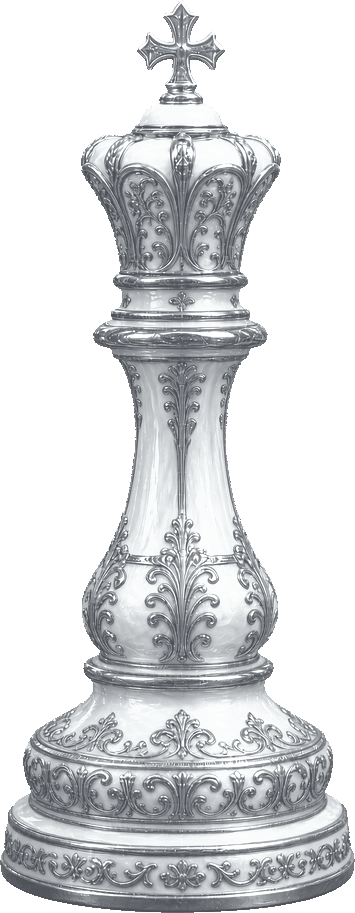
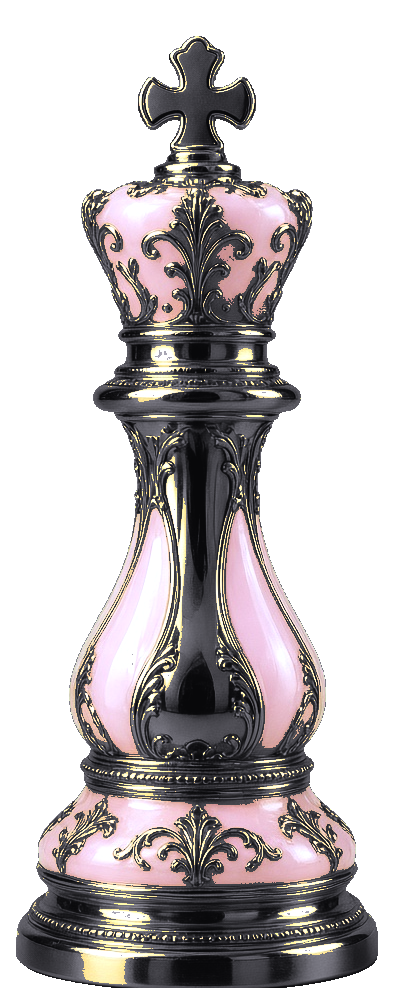
Update chess pieces.

diff --git a/play-rooms.js b/play-rooms.js
@@ -248,7 +248,7 @@ window.bwRateGame=async function(sb, room, me, winnerSide){
   var SETS=[
     {id:"classic", name:"Ivory · Onyx", need:0, member:false},
     {id:"cobalt", name:"Cobalt · Emerald", need:501, member:true},
-    {id:"gold", name:"Gold · Silver", need:501, member:true}
+    {id:"gold", name:"Gold · Onyx", need:501, member:true}
   ];
   function allowed(set, pts, member){
     if(set.need<=0) return true;
@@ -259,7 +259,7 @@ window.bwRateGame=async function(sb, room, me, winnerSide){
     var set=setId||document.body.getAttribute("data-set")||"classic";
     var L=(letter||"P").toUpperCase();
     var s=side==="b"?"b":"w";
-    if(set==="gold") return (s==="w"?"piece-gold-w-":"piece-gold-b-")+L+".png?v=13";
+    if(set==="gold") return (s==="w"?"piece-gold-w-":"piece-gold-b-")+L+".png?v=14";
     if(set==="cobalt") return "piece-"+s+"-"+L+".png?v=14";
     return (s==="w"?"piece-parlor-w-":"piece-parlor-b-")+L+".png?v=6";
   }
@@ -269,10 +269,10 @@ window.bwRateGame=async function(sb, room, me, winnerSide){
       var side=img.getAttribute("data-side");
       var letter=img.getAttribute("data-piece");
       if(!side||!letter){
-        var m=(img.getAttribute("src")||"").match(/piece-(?:ivory-w|onyx-b|gold-w|silver-b|silver-w)-([KQRBNP])/i);
+        var m=(img.getAttribute("src")||"").match(/piece-(?:parlor-w|parlor-b|ivory-w|onyx-b|gold-w|gold-b|silver-b|silver-w)-([KQRBNP])/i);
         if(m){
           letter=m[1];
-          side=/onyx-b|silver-b|piece-b-/.test(img.getAttribute("src")||"")?"b":"w";
+          side=/onyx-b|gold-b|silver-b|parlor-b|piece-b-/.test(img.getAttribute("src")||"")?"b":"w";
         } else {
           m=(img.getAttribute("src")||"").match(/piece-([wb])-([KQRBNP])/i);
           if(!m) return;
